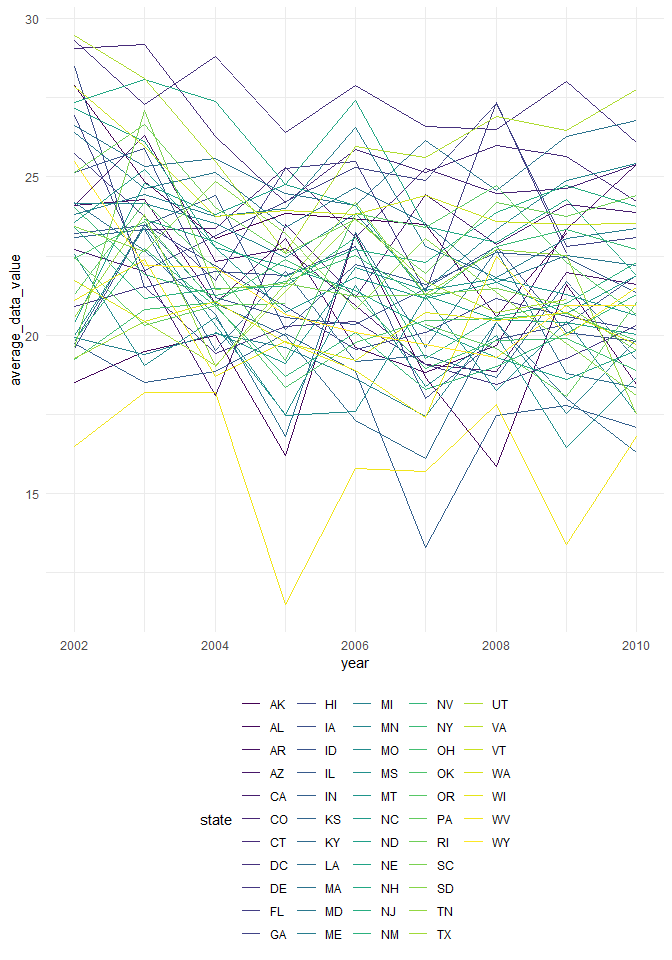
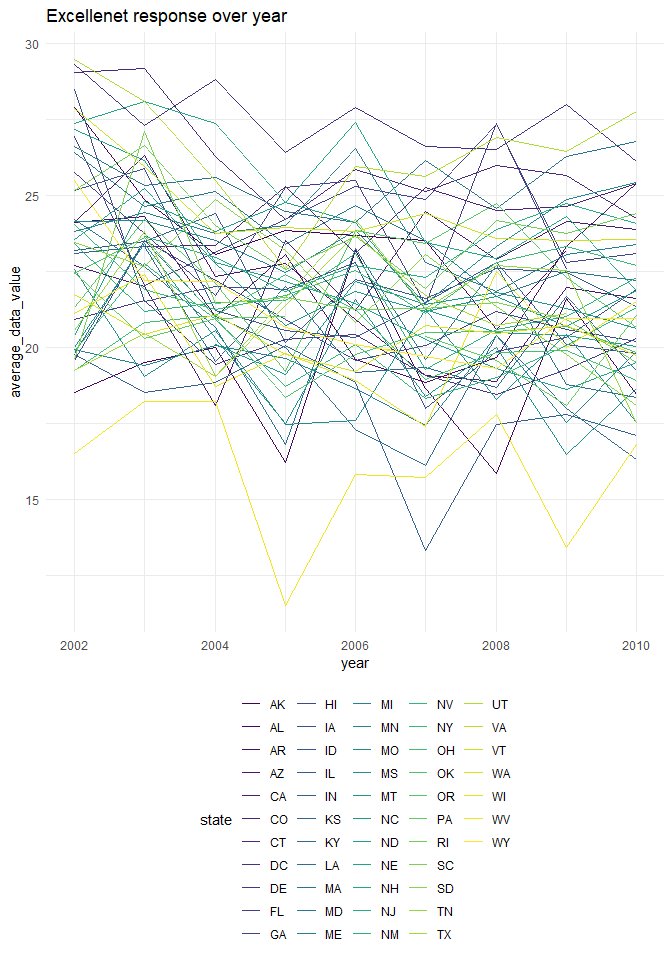
some revise

diff --git a/p8105_hw3_jz3425.md b/p8105_hw3_jz3425.md
@@ -305,7 +305,10 @@ excellent_df
 ``` r
 excellent_df %>% 
   ggplot(aes(x = year, y = average_data_value, color = state)) +
-  geom_line()
+  geom_line() +
+  labs(
+    title = "Excellenet response over year"
+  )
 ```
 
 ![](p8105_hw3_jz3425_files/figure-gfm/unnamed-chunk-12-1.png)<!-- -->
@@ -321,10 +324,12 @@ brfss_df %>%
   filter(state == "NY") %>% 
   filter(year %in% c(2010, 2006)) %>% 
   select(year, county, response, data_value) %>% 
-  ggplot(aes(x = response, y = data_value, color = county, group = 1)) +
-  geom_point() +
-  geom_line() +
-  facet_grid(county ~ year)
+  ggplot(aes(x = response, y = data_value, fill = county, group = 1)) +
+  geom_col() +
+  facet_grid(county ~ year) +
+  labs(
+    title = "Distribution of responses in NY State"
+  )
 ```
 
 ![](p8105_hw3_jz3425_files/figure-gfm/unnamed-chunk-13-1.png)<!-- -->
@@ -440,7 +445,12 @@ accel_df %>%
   summarize(hour_activity = sum(activity) / 5) %>% 
   ggplot(aes(x = hour_id, y = hour_activity, color = day_of_week)) +
   geom_point() +
-  geom_line()
+  geom_line() +
+  labs(
+    title = "24-hour activity plot",
+    x = "hour of day",
+    y = "hour activity"
+  )
 ```
 
 ![](p8105_hw3_jz3425_files/figure-gfm/unnamed-chunk-16-1.png)<!-- -->
